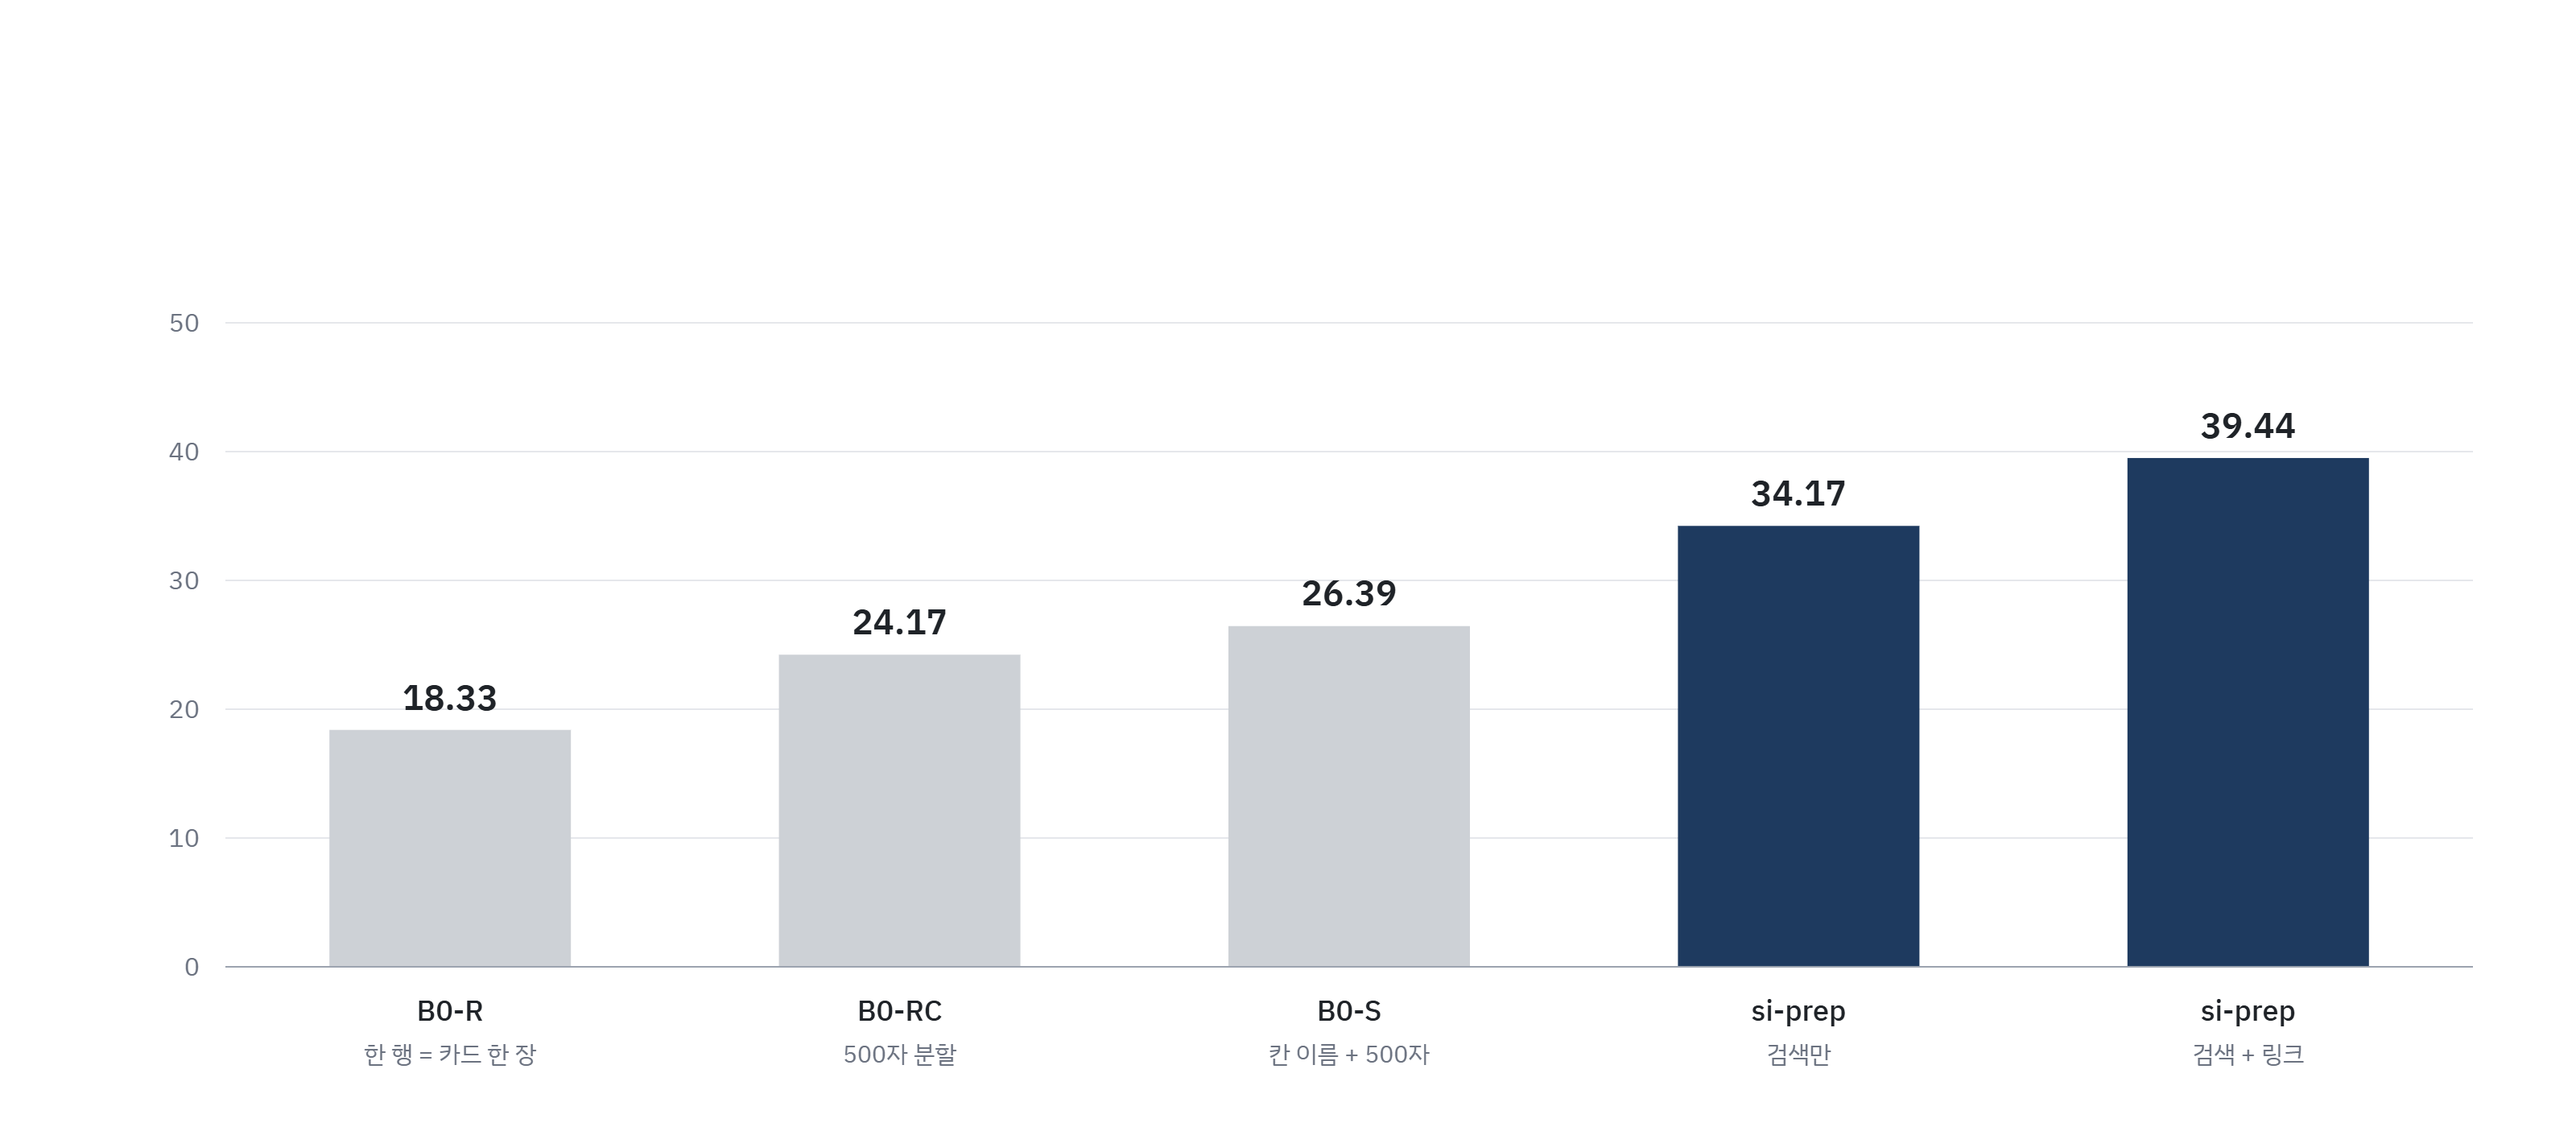
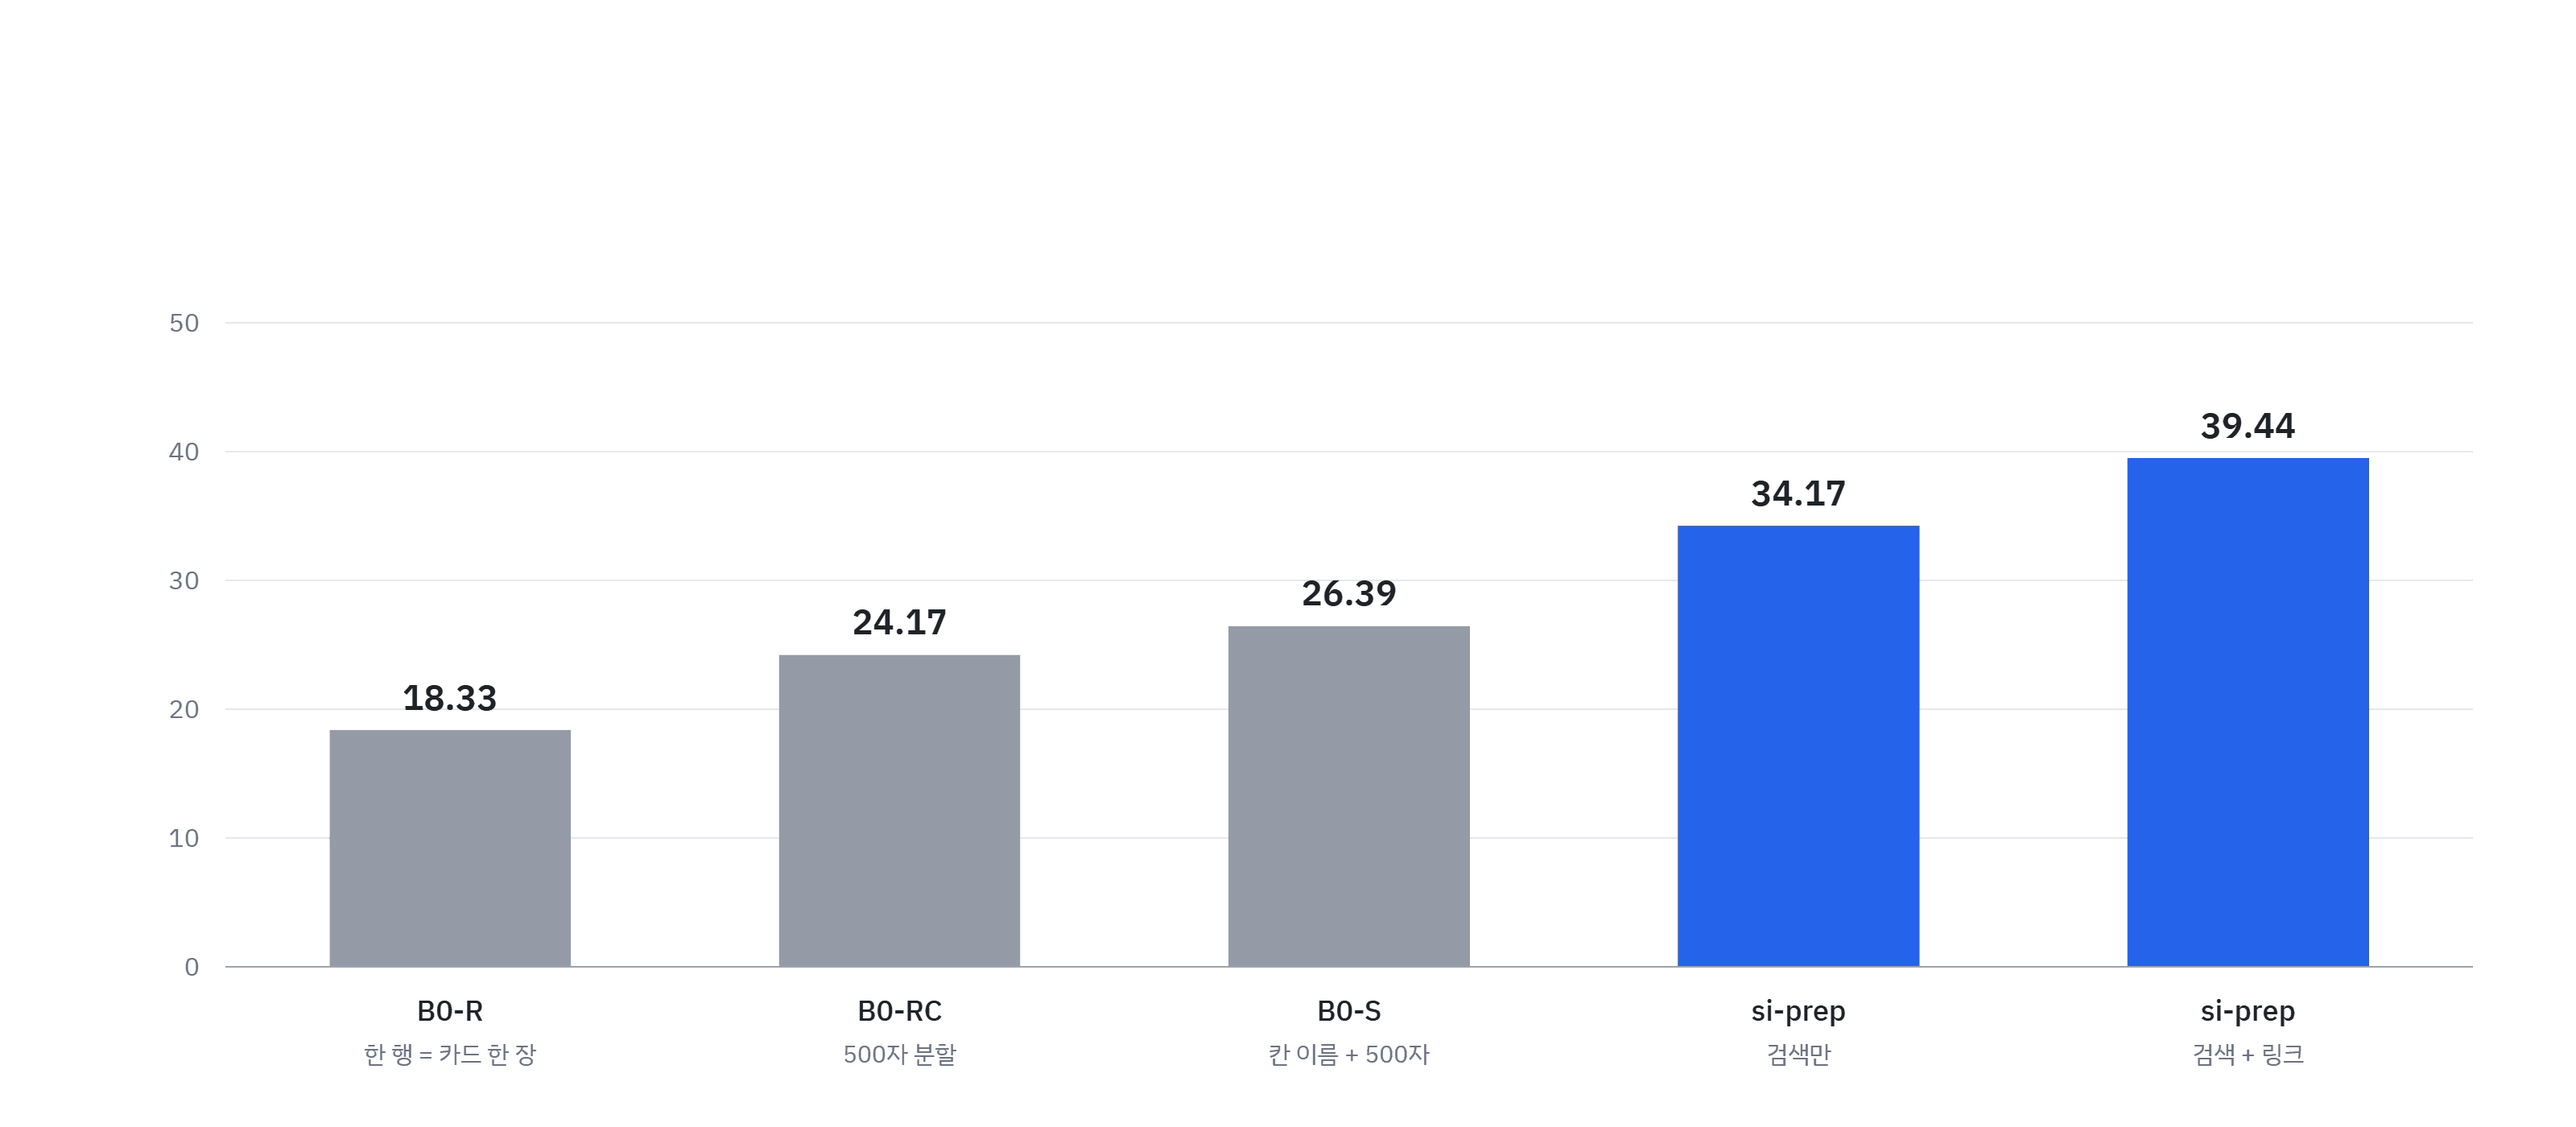
README: 배지 왼쪽 정렬, 회수율 차트 흰 배경·막대 색 대비 높임

diff --git a/README.md b/README.md
@@ -4,7 +4,7 @@
   <i>전처리가 정말 검색을 낫게 했는지, 같은 조건에서 숫자로 확인하는 RAG 평가 코드</i>
 </p>
 
-<p align="center">
+<p align="left">
   <img src="https://img.shields.io/badge/python-3.14%20tested-blue" alt="python"><br>
   <img src="https://img.shields.io/badge/license-MIT-green" alt="license"><br>
   <img src="https://img.shields.io/badge/embedding-local%20(bge--m3)-orange" alt="embedding"><br>
